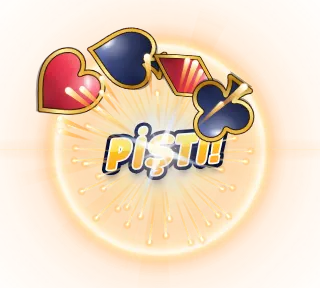
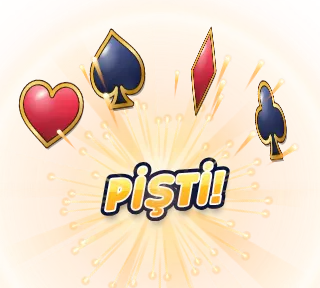
WIP (content agent): effects ongoing
Claude-Session: https://claude.ai/code/session_01CsFEdfga1NVSso6TsM8PXG

diff --git a/kahvehane/game/src/ui/fxpreview.ts b/kahvehane/game/src/ui/fxpreview.ts
@@ -61,7 +61,7 @@ export function mountFx(box: HTMLElement, id: string, still = false): FxLoop {
         /* önizleme sessiz */
       },
     };
-    const at = {x: W / 2, y: H * (id === 'havai' ? 0.62 : id === 'tac' ? 0.56 : 0.52)};
+    const at = {x: W / 2, y: H * (id === 'havai' ? 0.62 : id === 'klasik' ? 0.66 : id === 'tac' ? 0.56 : 0.52)};
     (FX[id] ?? FX.klasik)(s, at, false);
     if (id === 'klasik') {
       // oyunda damga verir; önizlemede PİŞTİ! yazısı ışığın önünde
